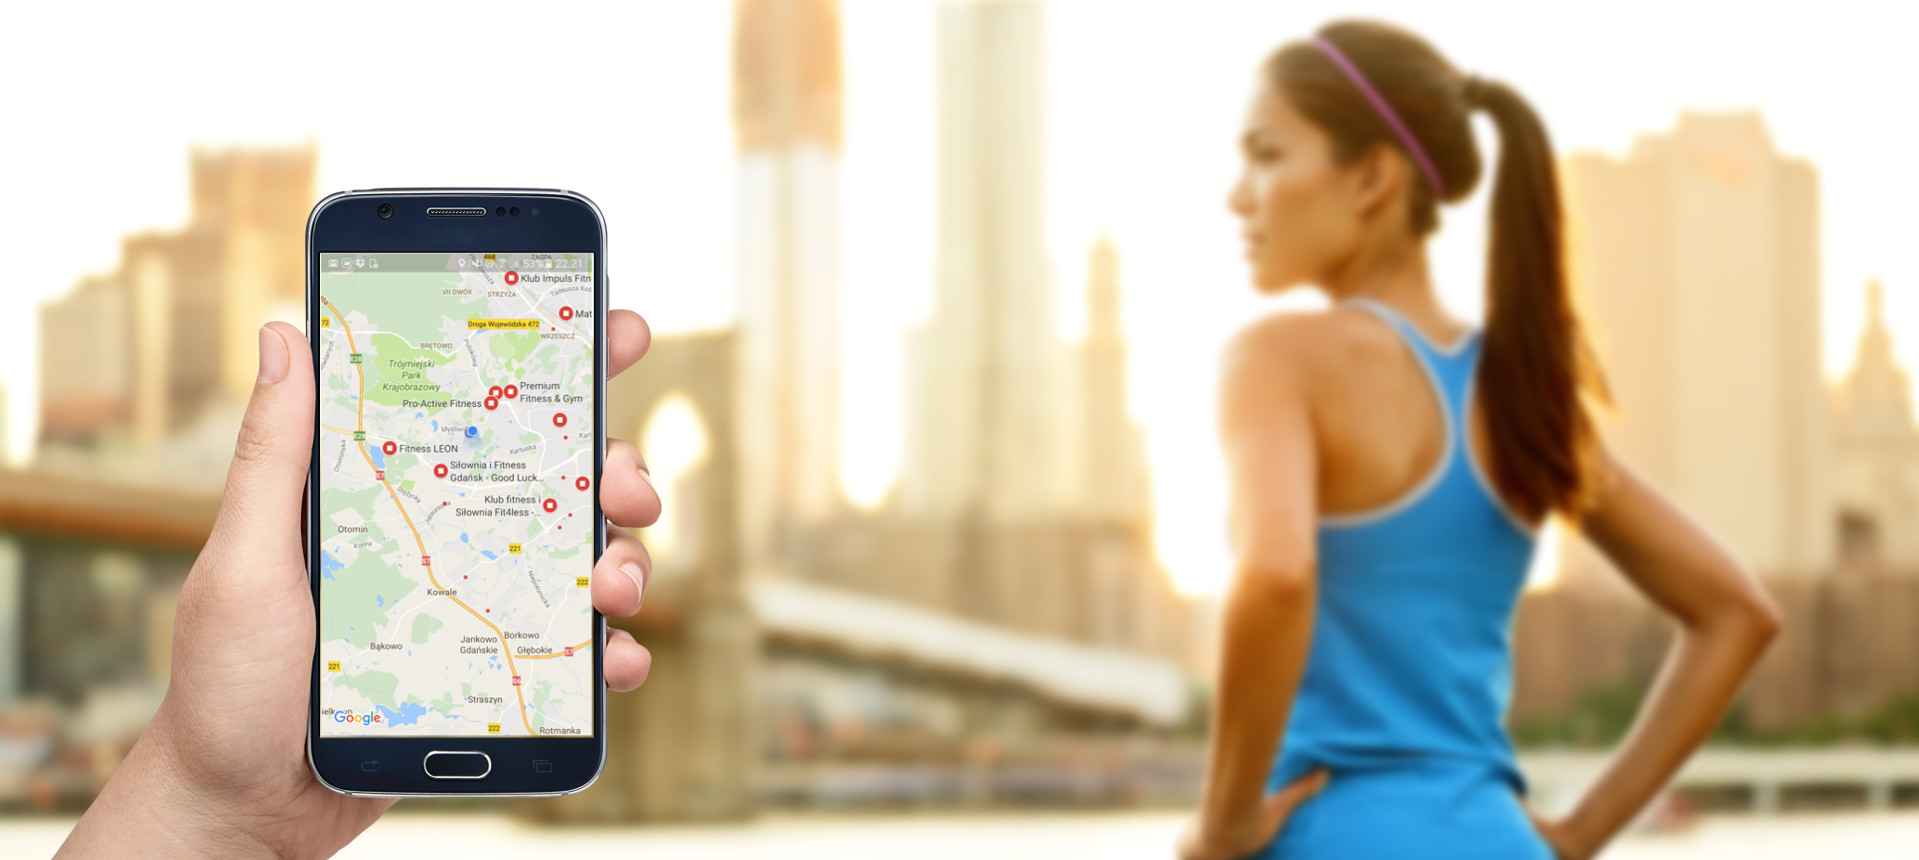
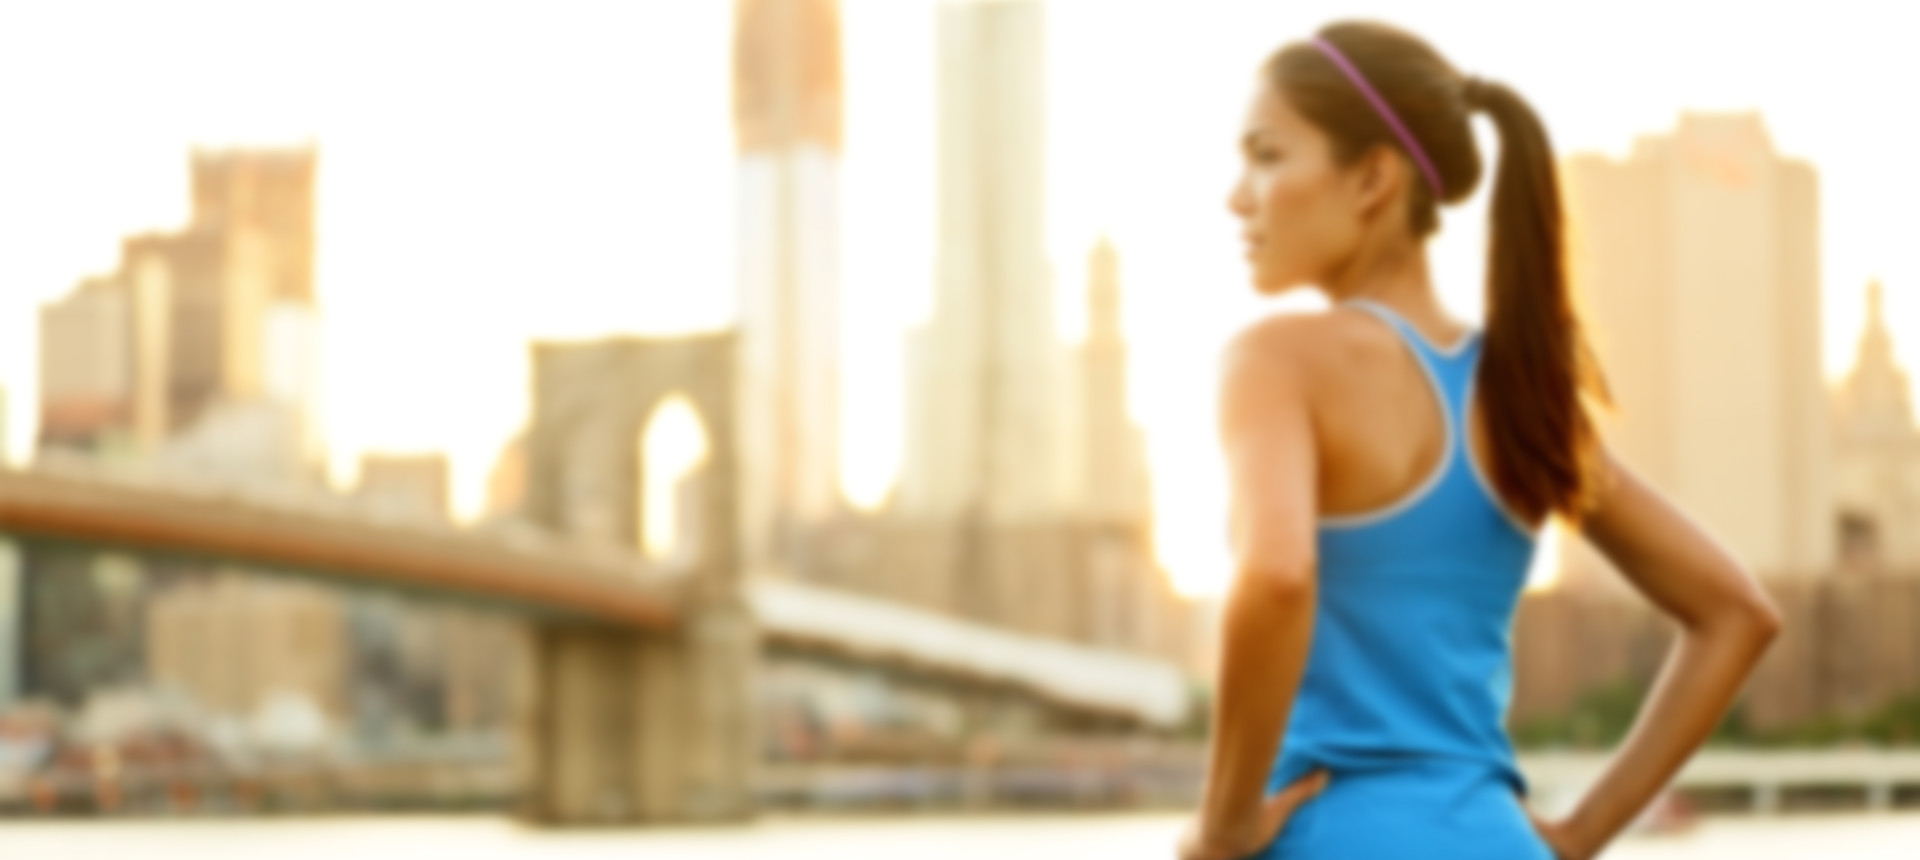
FD7MK podmiana tła, koniec gry

Changed region(s): [[0.0, 0.2116, 0.3689, 1.0]]

diff --git a/index.html b/index.html
@@ -3,9 +3,7 @@
 <head>
     <meta charset="UTF-8">
     <title>Gdzie poćwiczę?</title>
-    <link rel="stylesheet" type="text/css" href="bootstrap-3.3.7-dist/css/bootstrap.min.css">
     <link rel="stylesheet" type="text/css" href="style/style.css">
-
     <link href="https://fonts.googleapis.com/css?family=Francois+One|Ubuntu+Condensed" rel="stylesheet">
     <meta name="viewport" content="wdth=device-width, initial-scale=1">
 <body>
@@ -27,8 +25,8 @@
     <header class="zajawka">
         <figure class="phone img-responsive"> </figure>
         <div class="header-zajawka">
-            <div class="row"><h1 class="col-sm-offset-2 col-sm-8">Nie wiesz gdzie poćwiczyć?</h1></div>
-            <div class="row"><h2 class="col-sm-offset-2 col-sm-8">Dzięki naszej aplikacji nigdy nie zabraknie Ci miejsc ani pomysłów na trening!</h2></div>
+            <div><h1>Nie wiesz gdzie poćwiczyć?</h1></div>
+            <div><h2>Dzięki naszej aplikacji nigdy nie zabraknie Ci miejsc ani pomysłów na trening!</h2></div>
 
         </div>
     </header>
@@ -60,7 +58,7 @@
         </form>
     </section>
     <div id="game" class="game">
-        <div class="cover"></div>
+        <div class="cover translucent"></div>
         <div id="button-start" class="button-start">Start</div>
     </div>
     <div class="nad-sekcja-o-nas">
@@ -103,17 +101,25 @@
 //     przewijanie tła gry
      $(document).on('click', '.button-start', (function(){
          var x = 0;
-         setInterval(function(){
-             x-=1;
-             $('.game').css('background-position', x + 'px 0');
-         }, 10);
+         var intervalId;
+         setTimeout(function () {
+             intervalId = setInterval(function(){
+                 x-=1;
+                 $('.game').css('background-position', x + 'px 0');
+             }, 10);
+             setTimeout(function () {
+                 clearInterval(intervalId);
+             }, 15000)
+         }, 500);
+
      }));
 
     });
     // przewija do odpowiedniej sekcji
 //    start gry
      $('#button-start').click(function() {
-         $('div.button-start, div.cover').toggleClass('hidden');
+         $('div.cover').addClass('transparent').removeClass('translucent');
+         $('div.button-start').remove();
      });
      //parallax
     $(window).scroll(function () {

diff --git a/style/style.css b/style/style.css
@@ -381,12 +381,18 @@ footer * {
 .hidden {
     display: none
 }
+.transparent {
+    opacity: 0;
+}
+.translucent {
+    opacity: 0.8;
+}
 .cover {
     width: 100%;
     height: 100%;
     position: absolute;
-    background-color: rgba(255, 255, 255, 0.8);
-    z-index: 0;
+    background-color: white;
+    transition: opacity 1s ease-in-out;
 }
 /*ustawienia dla telefonu*/
 @media screen and (max-width:767px) {
